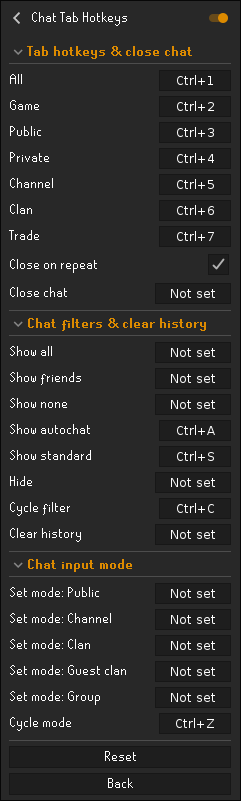
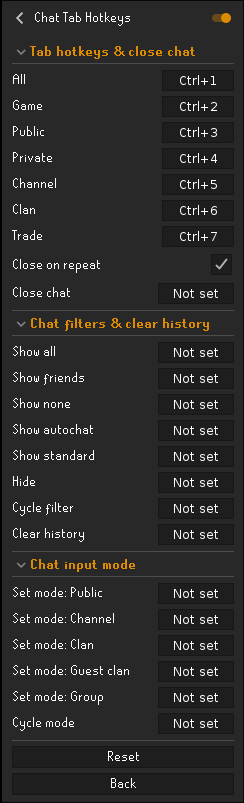
chore: release v1.0.0

diff --git a/CHANGELOG.md b/CHANGELOG.md
@@ -7,6 +7,8 @@ and this project adheres to [Semantic Versioning](https://semver.org/spec/v2.0.0
 
 ## [Unreleased]
 
+## [1.0.0] - 2026-07-06
+
 ### Added
 - Configurable hotkeys to switch to each chat tab (All, Game, Public, Private, Channel, Clan, Trade),
   defaulting to `Ctrl+1..7`.
@@ -19,10 +21,8 @@ and this project adheres to [Semantic Versioning](https://semver.org/spec/v2.0.0
   plus a Cycle mode hotkey that rotates Public / Channel / Clan / Guest clan.
 - Native clear-history hotkey for the currently-viewed tab (no Chat History plugin dependency).
 - `closeOnRepeat` option: pressing a tab's hotkey again closes the chat.
-- Settings grouped into two always-visible sections: "Tab hotkeys & close chat" and
-  "Chat filters & clear history".
+- Settings grouped into three always-visible sections: "Tab hotkeys & close chat",
+  "Chat filters & clear history", and "Chat input mode".
 
-_Note: pre-1.0.0 and not yet published to the Plugin Hub; behaviour is defined in [`spec.md`](spec.md).
-Needs an in-game smoke test before tagging v1._
-
-[Unreleased]: https://github.com/tinokaartovuori/chat-tab-hotkeys/commits/main
+[Unreleased]: https://github.com/tinokaartovuori/chat-tab-hotkeys/compare/v1.0.0...HEAD
+[1.0.0]: https://github.com/tinokaartovuori/chat-tab-hotkeys/releases/tag/v1.0.0